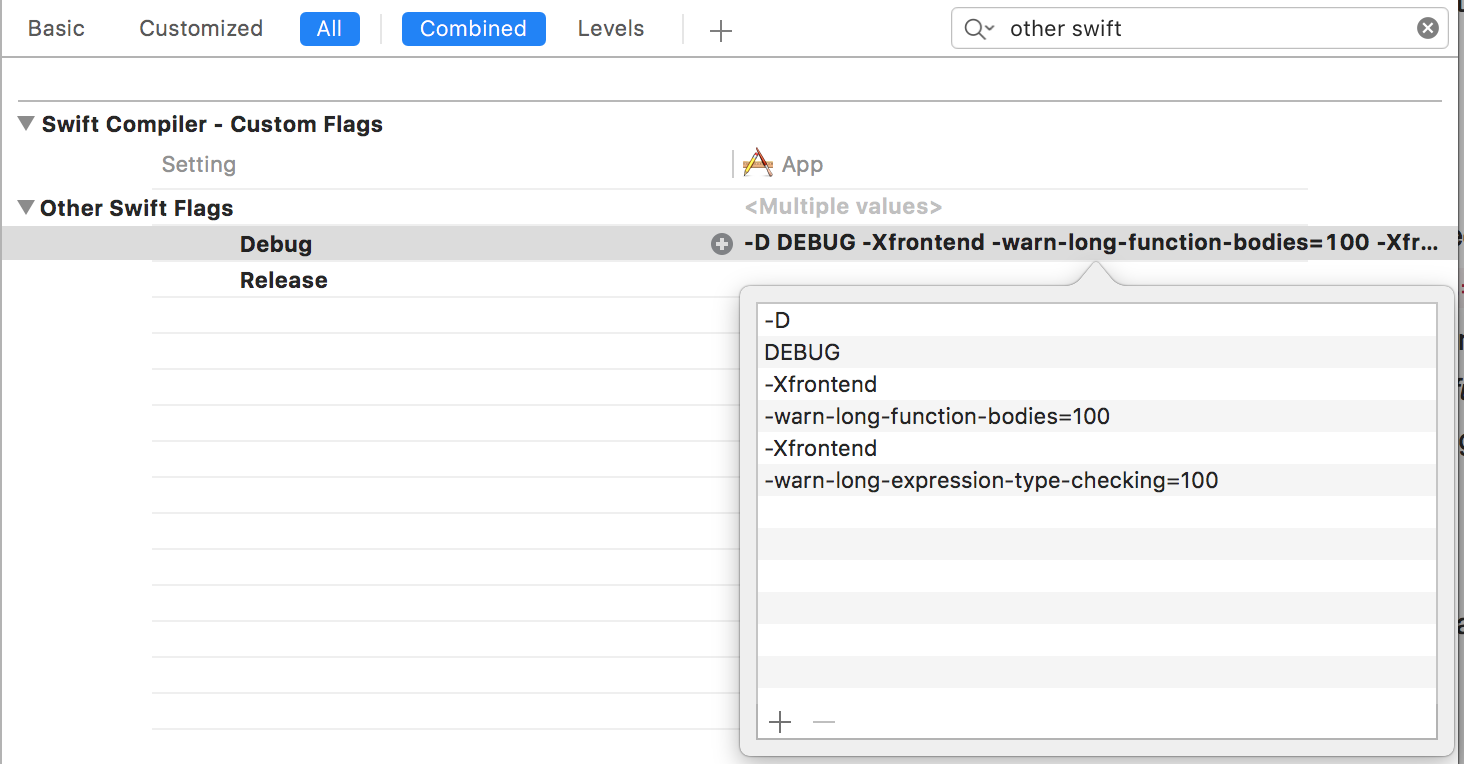
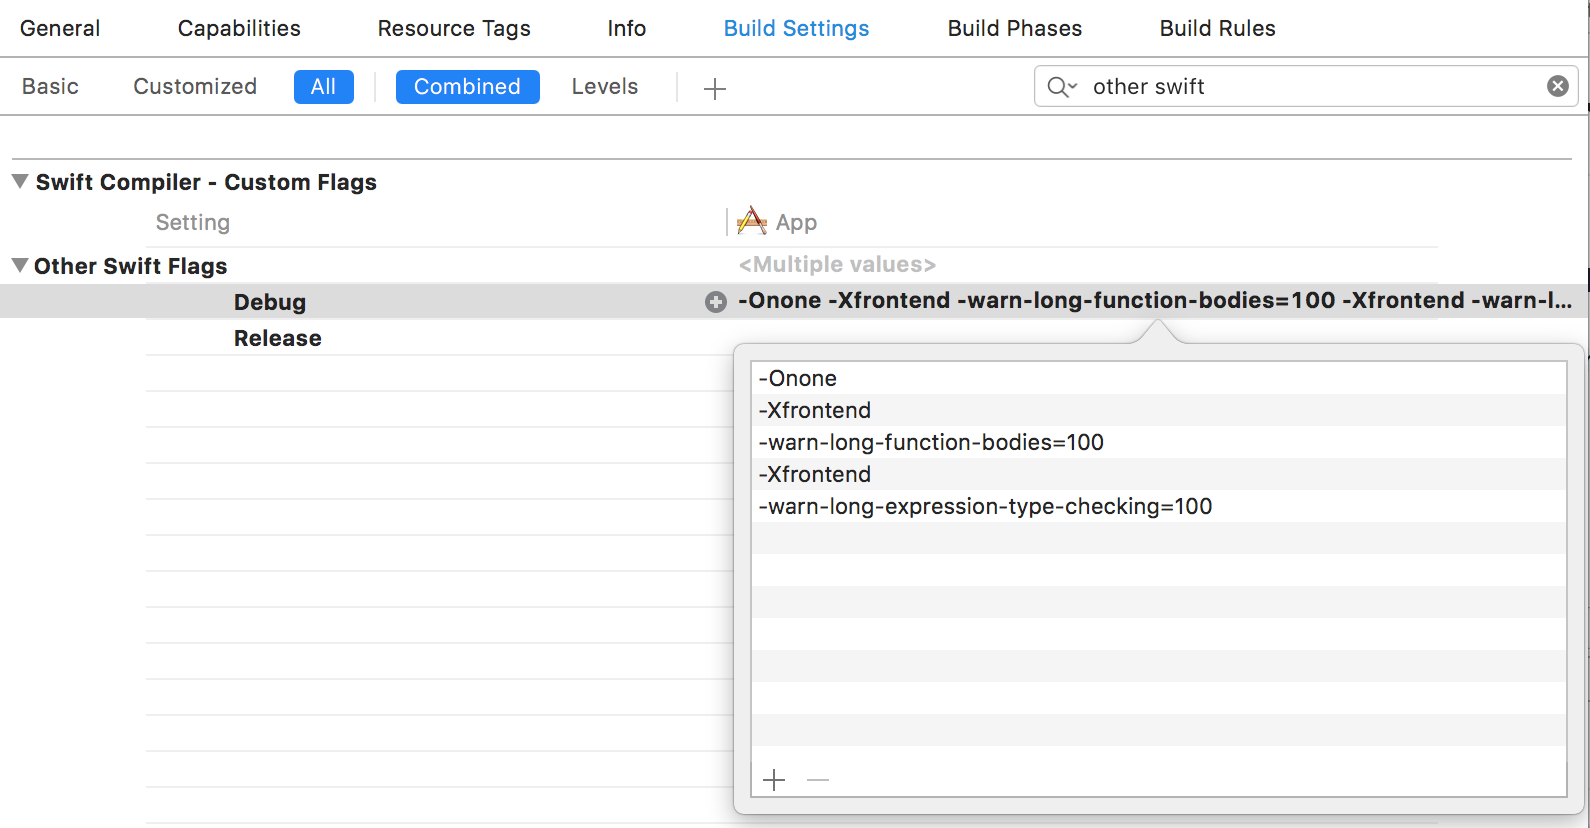
Remove outdated -D DEBUG flags from screenshots

diff --git a/README.md b/README.md
@@ -28,7 +28,7 @@ Swift build times are slow mostly because of expensive type checking. By default
 
 to `Other Swift Flags` in build settings:
 
-<img src="assets/times@2x.png" width="732">
+<img src="assets/times@2x.png" width="795">
 
 Build again and you should now see warnings like these:
 
@@ -119,7 +119,7 @@ Another common trick is to:
 - change `Optimization Level` to `Fast, Whole Module Optimization` for Debug configuration
 - add `-Onone` flag to `Other Swift Flags` **only for Debug configuration**
 
-<img src="assets/wmo_9@2x.png" width="767">
+<img src="assets/wmo_9@2x.png" width="792">
 
 What this does is it instructs the compiler to:
 
